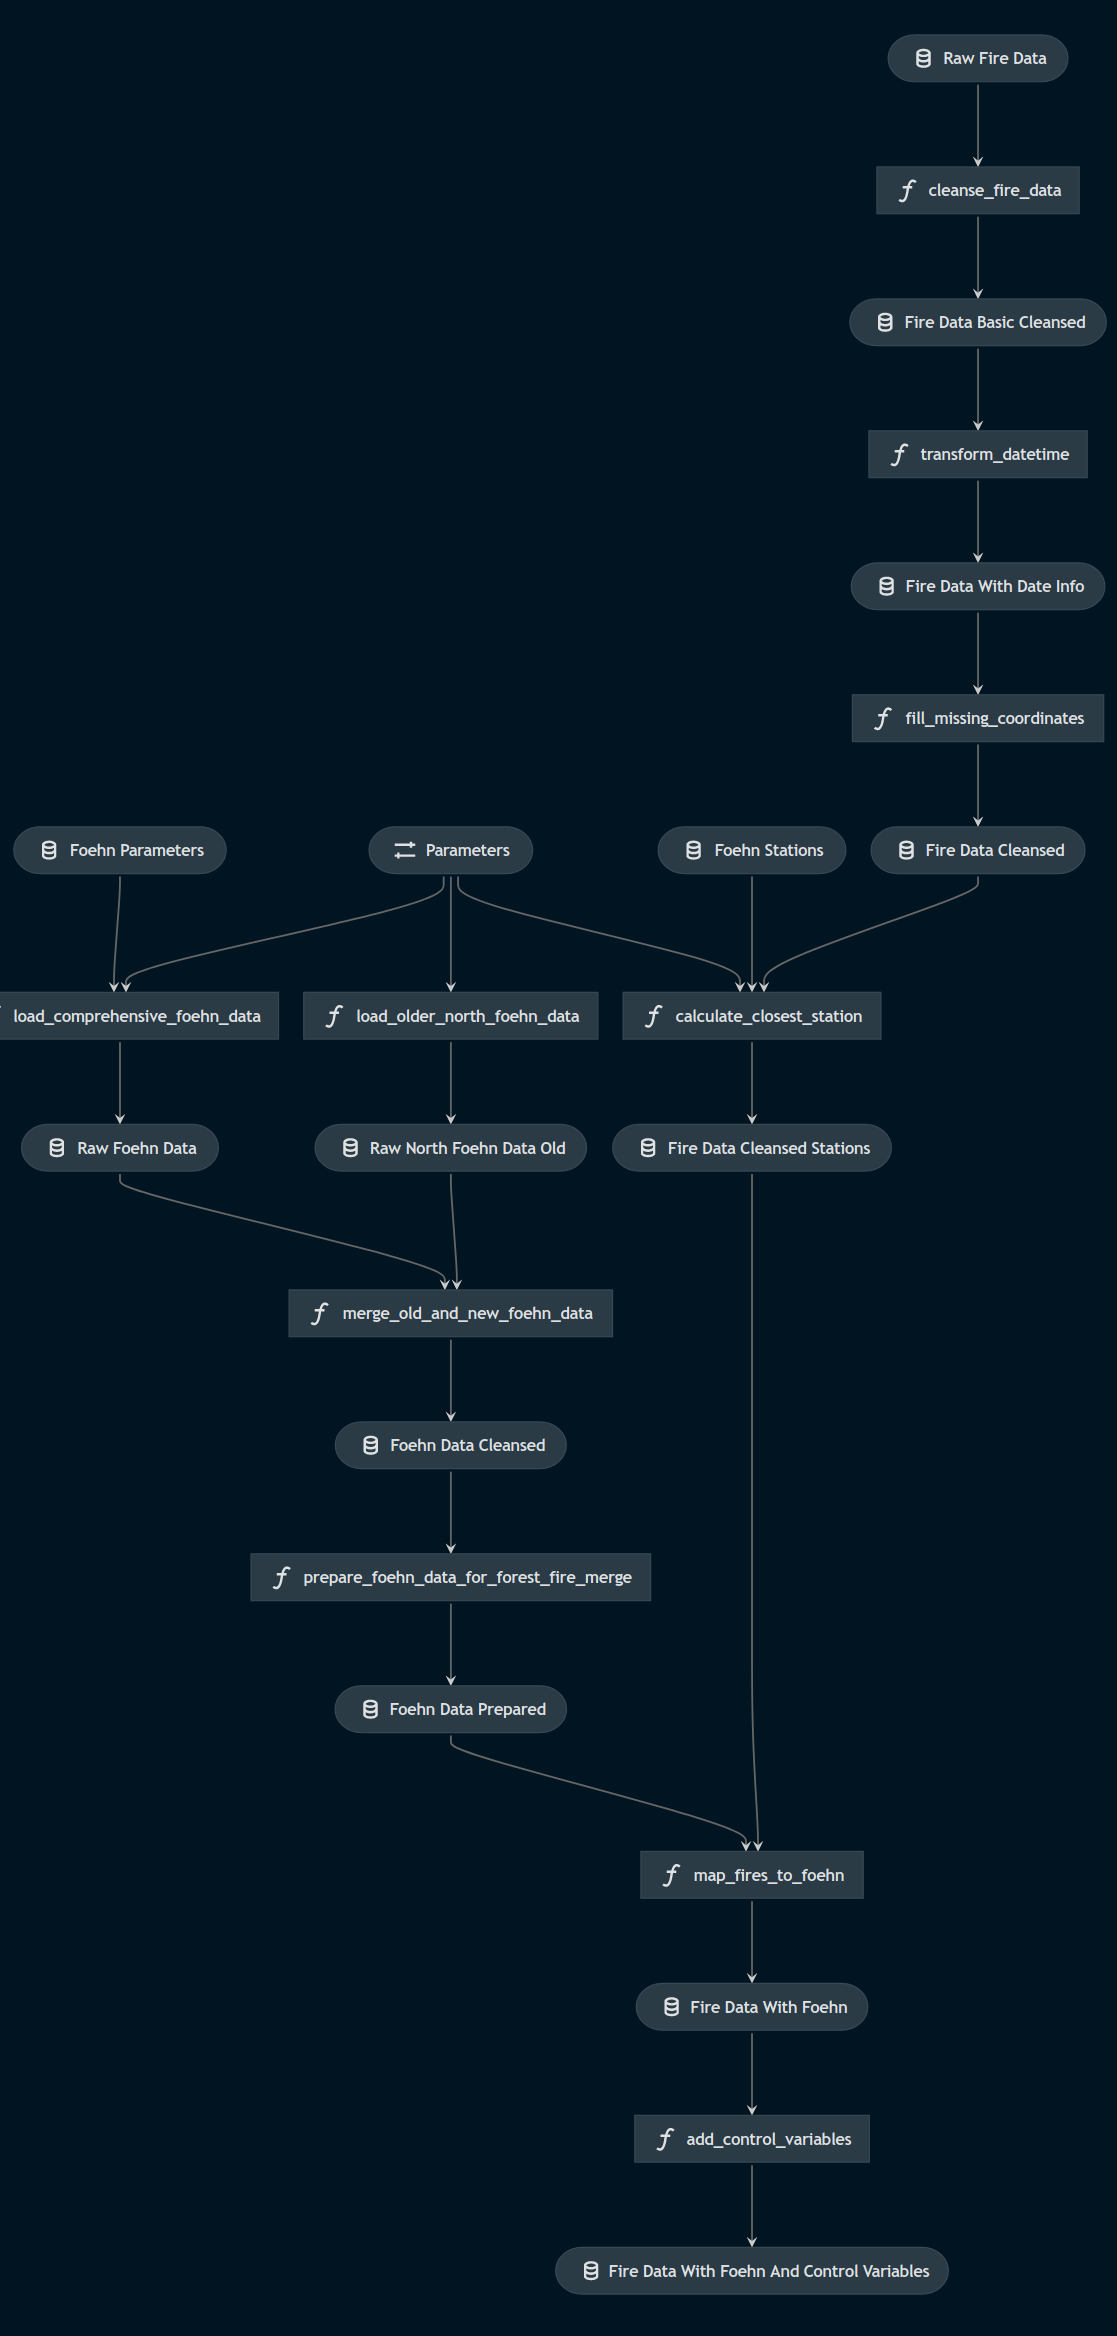
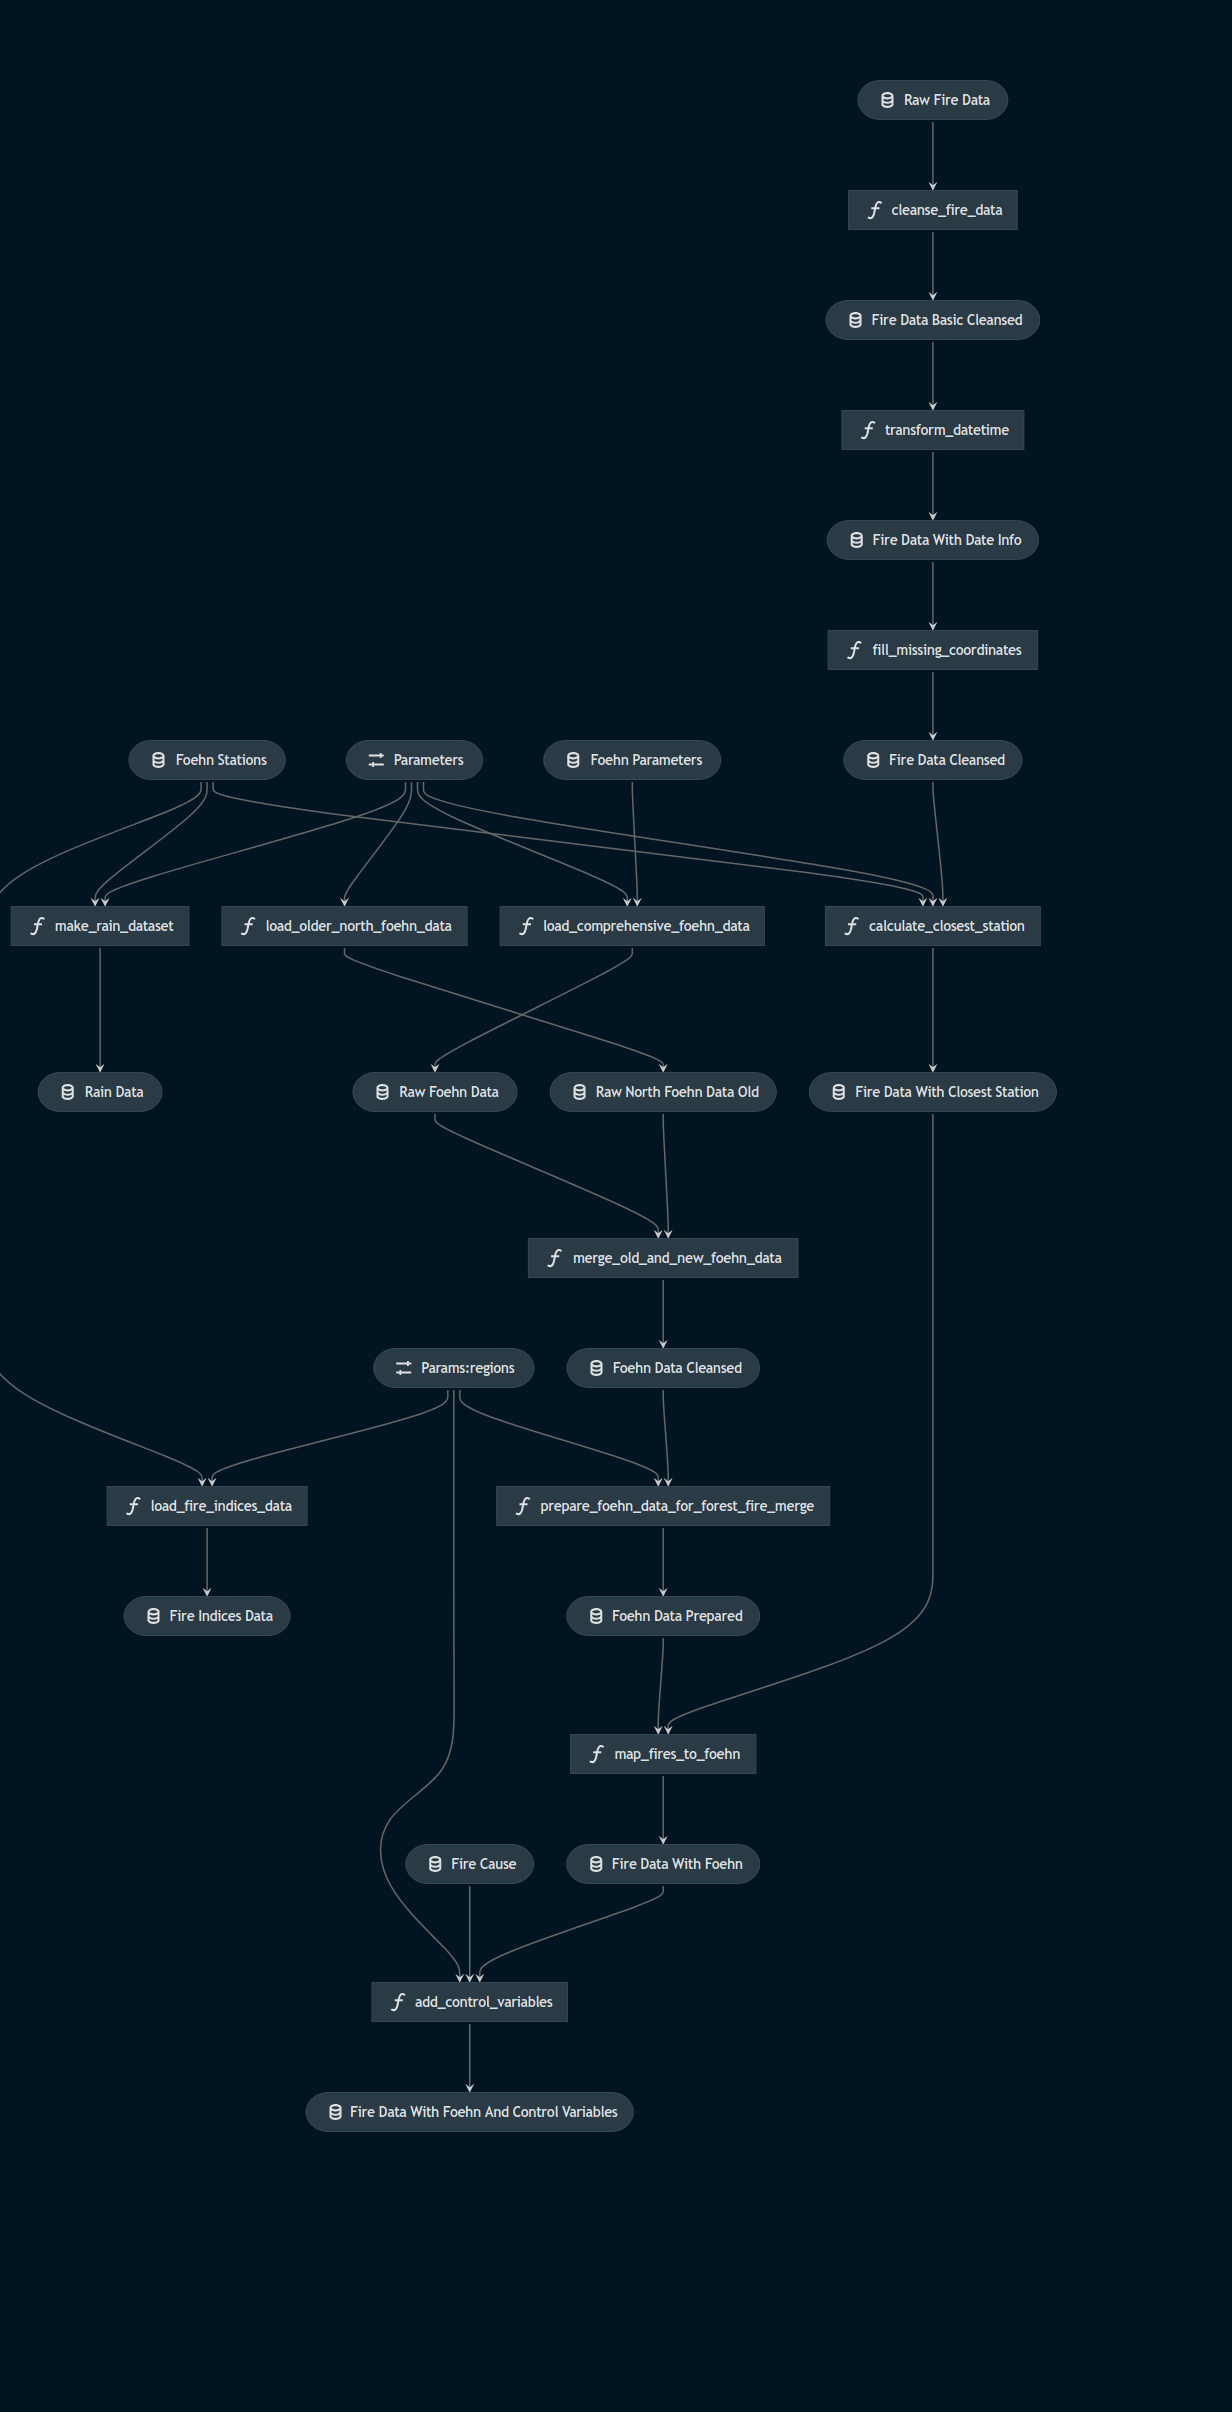
Updated README.md, environment.yml and pipeline visualization

diff --git a/README.md b/README.md
@@ -4,7 +4,7 @@ This project takes foehn wind and forest fire data in Switzerland of the past 40
 The whole project looks likes this (made with kedro viz):
 ![Kedro Pipeline](kedro-pipeline.png "Project overview")
 
-Essentially, there are three pipelines in this project: `fire_pipeline`, `foehn_pipeline`, and `foehn_fire_pipeline`. All of them can be found under `src/foehn_fire_impact/pipelines`.
+Essentially, there are four pipelines in this project: `fire_pipeline`, `foehn_pipeline`, `foehn_fire_pipeline`, and `miscellaneous_datasets_pipeline`. All of them can be found under `src/foehn_fire_impact/pipelines`. 
 
 ## Fire pipeline
 Pipeline for the fire data only. It cleanses the raw data, transform the datetime, adds some missing coordinates, and maps each fire to the closest weather observation station.
@@ -12,18 +12,25 @@ Pipeline for the fire data only. It cleanses the raw data, transform the datetim
 ## Foehn pipeline
 Pipeline to load and cleanse two data deliveries (each having a different structure) from MeteoSwiss containing important measurement variables (e.g., the temperature, wind speed and Duerr-Index) from all foehn measurement stations in Switzerland. This pipeline loads the data, performs some cleansing, ensures a consistent time axis, and merges both deliveries. The measurements cover the period 1981-2019 and can be used for a range of analyses. 
 
+The first steps in this pipeline only make sense when you have access to the raw data deliveries. Otherwise, it makes sense to only run the last node `prepare_foehn_data_for_forest_fire_merge`, since here we reduce the cleansed foehn data (about 3 GB) to the format which is required for the merge with fire data. Reach out to me if you'd like to have access to this data, and I am happy to help:)
+
 ## Foehn fire pipeline
 Pipeline which maps the before preprocessed fire and foehn data onto each other and adds some control variables (i.e., fire regime, foehn type, and decade). The resulting file (which is also included in the git-commit), is then analyzed in the notebook under `notebooks/data_exploration.ipynb`.
 
+## Miscellaneous dataset pipeline
+Pipeline which contains two nodes. The first (`make_rain_dataset`) will load the rain data from the RhiresD dataset. However, the output is included in the repository since its small, so you are not forced to run this node. The second node (`load_fire_indices_data`) does load fire indices data from two data deliveries. Here you are required to run this node, since the files sizes are too large for git.
+
 # Getting started
-If you want to run the pipelines yourself, here you find the most important kedro commands. To set up everything, simply run
+If you want to run the pipelines yourself, here you find the most important kedro commands. To set up everything, simply run ([conda](https://www.anaconda.com/products/individual#Downloads) is required)
 ```
-kedro install
+# Navigate to main directory of project and run
+conda env create -f src/environment.yml  # Install a new virtual environment
+conda activate foehnfireenv  # Activate the virtual environment
 ```
 
 Now you can run everything, certain pipelines, or nodes via 
 ```
-kedro run # Runs everything
+kedro run # Runs everything, might fail since certain datasets are not avaliable 
 kedro run --pipeline foehn_fire_pipeline # Runs the foehn_fire_pipeline pipeline only 
 kedro run --node cleanse_fire_data # Runs the cleanse_fire_data node only
 kedro run --from-nodes map_fires_to_foehn # Runs all nodes from the map_fires_to_foehn node (including the node itself)
@@ -40,7 +47,7 @@ There are also some unit tests pre-written for certain functions, which you can 
 kedro test
 ```
 
-You can visualize all pipelines via 
+You can visualize all pipelines via (see PNG image above - however with `kedro viz` the plot becomes interactive)
 ```
 kedro viz
 ```
